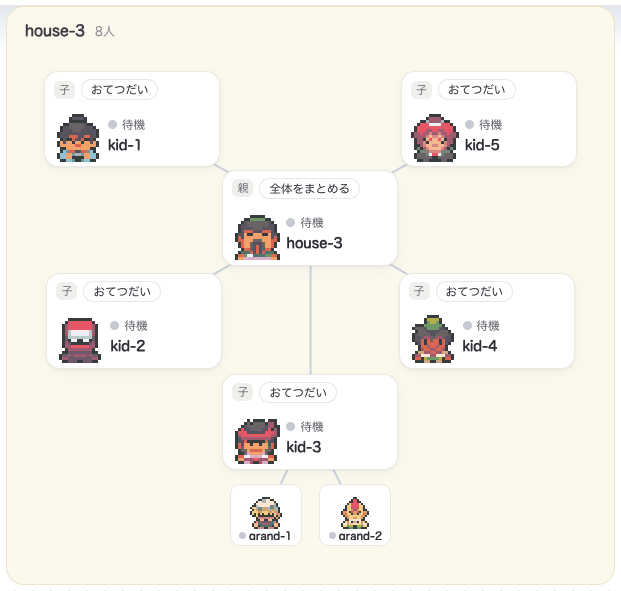
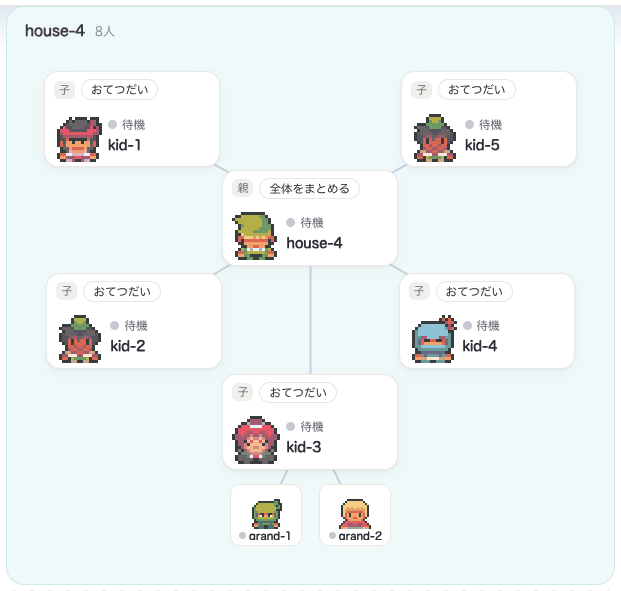
子3人を左、右、真下に置く。孫がいても子1〜6人は固定の座標のままにし、孫を子の外側へ並べて、検査に通らなければ孫までの距離を広げる（弧の計算には戻さない）

diff --git a/src/layout/layout.test.ts b/src/layout/layout.test.ts
@@ -1,6 +1,6 @@
 // 配置計算だけの検証。docs/design/physics-layout.md の 10 の8ケースを数値で確かめる。
 // 実行: bun test src/layout
-import { describe, expect, spyOn, test } from "bun:test";
+import { describe, expect, test } from "bun:test";
 import { readFileSync, readdirSync } from "node:fs";
 import { join } from "node:path";
 import { childSlots, gridRowGap, layoutFamily, type LNode, type Placed } from "./layout";
@@ -21,6 +21,9 @@ function family(rows: [string, string | null][], names?: Record<string, string>)
 const ok = (m: { overlaps: number; crossings: number; edgeThroughNode: number; interleave: number }) =>
   m.overlaps === 0 && m.crossings === 0 && m.edgeThroughNode === 0 && m.interleave === 0;
 const get = (ns: Placed[], id: string) => ns.find((n) => n.id === id)!;
+// 余白を指定すると、子1〜6人の固定の座標を使わず弧の計算になる。子1〜6人の世帯で弧の計算を確かめる試験はこれを渡す。
+// 2026-11-21 から、子1〜6人の世帯は孫がいても固定の座標に置く。弧の計算は子7人以上の世帯で使う
+const RADIAL = { gap: LAYOUT.gap };
 
 describe("家族の木の配置", () => {
   test("1. 親1人・子1人: 子は親の真下", () => {
@@ -75,11 +78,11 @@ describe("家族の木の配置", () => {
     expect(ok(r.metrics)).toBe(true);
   });
 
-  test("5. 一方の子にだけ孫が多い: その枝に広い角度が割り当たる", () => {
+  test("5. 一方の子にだけ孫が多い（弧の計算）: その枝に広い角度が割り当たる", () => {
     const rows: [string, string | null][] = [["p", null], ["a", "p"], ["b", "p"], ["c", "p"]];
     for (let i = 0; i < 8; i++) rows.push([`a${i}`, "a"]);
     rows.push(["b0", "b"], ["c0", "c"]);
-    const r = layoutFamily(family(rows));
+    const r = layoutFamily(family(rows), RADIAL);
     const span = (pre: string) => {
       const as = r.nodes.filter((n) => n.id.startsWith(pre) && n.depth === 2).map((n) => n.angle);
       return deg(Math.max(...as) - Math.min(...as));
@@ -90,24 +93,28 @@ describe("家族の木の配置", () => {
     expect(ok(r.metrics)).toBe(true);
   });
 
-  test("6. 深さ4まで・合計25体: 世代と親子を追える（重なり・交差・線の通り抜け・混ざりが0）", () => {
+  test("6. 深さ4まで・合計25体: 世代と親子を追える（重なり・交差・線の通り抜け・混ざりが0）。弧の計算と、子2人の固定の座標の両方", () => {
     const rows: [string, string | null][] = [["meta-0a", null], ["tangle-harvest", "meta-0a"]];
     for (let i = 1; i <= 4; i++) {
       rows.push([`miner-${i}`, "tangle-harvest"]);
       for (let j = 1; j <= 4; j++) rows.push([`miner-${i}.${j}`, `miner-${i}`]);
     }
     rows.push(["deep-1", "miner-2.1"], ["deep-2", "miner-2.1"], ["reviewer", "meta-0a"]);
-    const r = layoutFamily(family(rows));
-    report.push({ ケース: 6, 体数: rows.length, 最大の深さ: Math.max(...r.nodes.map((n) => n.depth)), 候補: r.arcIndex, 候補ごと: JSON.stringify(r.candidates), ...r.metrics });
+    const r = layoutFamily(family(rows), RADIAL);
+    const fixed = layoutFamily(family(rows));
+    expect(fixed.arcIndex).toBe(-1);
+    expect(ok(fixed.metrics)).toBe(true);
+    expect([get(fixed.nodes, "tangle-harvest"), get(fixed.nodes, "reviewer")].map((n) => [n.x, n.y])).toEqual(childSlots(2)!.map((q) => [q.x, q.y]));
+    report.push({ ケース: 6, 固定の座標のs: fixed.metrics.s.toFixed(3), 固定の座標の調整: fixed.metrics.adjustments, 体数: rows.length, 最大の深さ: Math.max(...r.nodes.map((n) => n.depth)), 候補: r.arcIndex, 候補ごと: JSON.stringify(r.candidates), ...r.metrics });
     expect(rows.length).toBe(25);
     expect(ok(r.metrics)).toBe(true);
   });
 
-  test("7. 子の追加・削除: 回転や反転をせず、角度の順が保たれる", () => {
+  test("7. 子の追加・削除（弧の計算）: 回転や反転をせず、角度の順が保たれる", () => {
     const base: [string, string | null][] = [["p", null], ["a", "p"], ["b", "p"], ["c", "p"], ["a1", "a"], ["a2", "a"], ["b1", "b"]];
-    const r0 = layoutFamily(family(base));
-    const added = layoutFamily(family([...base, ["d", "p"]]));
-    const removed = layoutFamily(family(base.filter(([id]) => id !== "b1")));
+    const r0 = layoutFamily(family(base), RADIAL);
+    const added = layoutFamily(family([...base, ["d", "p"]]), RADIAL);
+    const removed = layoutFamily(family(base.filter(([id]) => id !== "b1")), RADIAL);
     const order = (ns: Placed[], ids: string[]) => ids.map((id) => get(ns, id).angle).every((v, i, a) => i === 0 || a[i - 1] < v);
     const moved = (ns: Placed[]) => Math.max(...r0.nodes.filter((n) => ns.some((m) => m.id === n.id)).map((n) => { const m = get(ns, n.id); return Math.hypot(m.x - n.x, m.y - n.y); }));
     const flipped = (ns: Placed[]) => r0.nodes.filter((n) => n.depth > 0 && ns.some((m) => m.id === n.id)).some((n) => Math.sign(Math.round(get(ns, n.id).x)) === -Math.sign(Math.round(n.x)) && Math.abs(n.x) > 20);
@@ -123,13 +130,16 @@ describe("家族の木の配置", () => {
     expect(ok(added.metrics) && ok(removed.metrics)).toBe(true);
   });
 
-  test("8. 長い名前: 実際の箱で重なりを見つけて解消する", () => {
+  test("8. 長い名前: 実際の箱で重なりを見つけて解消する（弧の計算と、子2人の固定の座標の両方）", () => {
     const rows: [string, string | null][] = [["p", null], ["a", "p"], ["b", "p"]];
     const names: Record<string, string> = {};
     for (let i = 0; i < 6; i++) { rows.push([`a${i}`, "a"]); names[`a${i}`] = `long-worker-name-${i}-review`; }
     for (let i = 0; i < 6; i++) { rows.push([`b${i}`, "b"]); names[`b${i}`] = `長い名前の孫その${i}`; }
-    const short = layoutFamily(family(rows));
-    const long = layoutFamily(family(rows, names));
+    const short = layoutFamily(family(rows), RADIAL);
+    const long = layoutFamily(family(rows, names), RADIAL);
+    const fixedLong = layoutFamily(family(rows, names));
+    expect(fixedLong.arcIndex).toBe(-1);
+    expect(ok(fixedLong.metrics)).toBe(true);
     const w = (r: typeof long) => Math.max(...r.nodes.filter((n) => n.depth === 2).map((n) => n.w));
     report.push({ ケース: 8, 短い名前の箱の幅: w(short).toFixed(0), 長い名前の箱の幅: w(long).toFixed(0), 調整の回数: long.metrics.adjustments, ...long.metrics });
     expect(w(long)).toBeGreaterThan(w(short));
@@ -148,7 +158,6 @@ describe("家族の木の配置", () => {
   const shape = (r: { nodes: Placed[] }) => r.nodes.map((n) => [n.depth, n.x.toFixed(3), n.y.toFixed(3), n.w, n.h].join(","));
 
   // 子5人と6人は 2026-11-21 から格子の固定の座標に置く。試験9〜11 の数字は弧の計算（余白を指定した呼び出し）で出し、直したときの記録として残す
-  const RADIAL = { gap: LAYOUT.gap };
 
   test("9. 親の町（親が本物、子がゴースト）と子の町（親がゴースト、子が本物）で同じ配置になる（弧の計算と、子5人と6人の格子）", () => {
     const local = layoutFamily(town("e8c798cd", KIDS.map((k) => `ghost:${k}`)), RADIAL);
@@ -202,15 +211,16 @@ describe("家族の木の配置", () => {
   });
 
   // 2026-11-13、本人が子1〜4人の位置を決めた。親の中心が (0,0)、y は下が正。card 176×96、余白 m 8 で、dx 92、dy 104、side 184
+  // 2026-11-21、本人が子3人を、左、右、真下に変えた（真上、左下、右下から）。左右の子は親と同じ高さ、真下の子の x は親と同じ
   const SPEC: Record<number, [number, number][]> = {
     1: [[0, 104]],
     2: [[-92, 104], [92, 104]],
-    3: [[0, -104], [-92, 104], [92, 104]],
+    3: [[-184, 0], [184, 0], [0, 104]],
     4: [[-184, 0], [184, 0], [-92, 104], [92, 104]],
   };
   // 本人の条件のまま書く: |xA-xB| >= w+m か |yA-yB| >= h+m
   const apart = (a: Placed, b: Placed) => Math.abs(a.x - b.x) >= 176 + 8 || Math.abs(a.y - b.y) >= 96 + 8;
-  const SIZE: Record<number, { w: number; h: number }> = { 1: { w: 251, h: 303 }, 2: { w: 435, h: 303 }, 3: { w: 435, h: 407 }, 4: { w: 619, h: 303 } };
+  const SIZE: Record<number, { w: number; h: number }> = { 1: { w: 251, h: 303 }, 2: { w: 435, h: 303 }, 3: { w: 619, h: 303 }, 4: { w: 619, h: 303 } };
 
   for (const n of [1, 2, 3, 4]) {
     test(`12-${n}. 子${n}人: 本人が決めた固定の座標に、兄弟の順で置く。どのカードの組も重ならない`, () => {
@@ -233,16 +243,24 @@ describe("家族の木の配置", () => {
     });
   }
 
-  test("13. 子7人以上の世帯と、子1〜4人で孫がいる世帯は、今の計算のまま（弧の候補から選ぶ）", () => {
+  test("12-3b. 子3人: 左右の子は親と同じ高さ、真下の子の x は親と同じ", () => {
+    const r = layoutFamily(town("e8c798cd", KIDS.slice(0, 3)));
+    const [l, rr, b] = KIDS.slice(0, 3).map((id) => get(r.nodes, id));
+    expect([l.y, rr.y]).toEqual([0, 0]);
+    expect(l.x).toBe(-rr.x);
+    expect(b.x).toBe(0);
+    expect(b.y).toBeGreaterThan(0);
+    expect(r.nodes.some((n) => n.y < 0)).toBe(false); // 上には置かない
+  });
+
+  test("13. 子7人以上の世帯は、今の計算のまま（弧の候補から選ぶ）", () => {
     expect(childSlots(7)).toBeNull();
     const seven = layoutFamily(town("e8c798cd", [...KIDS6, "5c0ffee1"]));
     expect(seven.arcIndex).toBeGreaterThanOrEqual(0);
     expect(seven.candidates.length).toBe(LAYOUT.arcLimits.length);
     expect(ok(seven.metrics)).toBe(true);
-    const withGrand = layoutFamily(family([["p", null], ["a", "p"], ["b", "p"], ["a1", "a"]]));
-    expect(withGrand.arcIndex).toBeGreaterThanOrEqual(0);
-    expect(withGrand.fallback).toBeUndefined();
-    expect(ok(withGrand.metrics)).toBe(true);
+    const sevenGrand = layoutFamily(family([["p", null], ...Array.from({ length: 7 }, (_, i) => [`c${i}`, "p"] as [string, string]), ["c0-1", "c0"]]));
+    expect(sevenGrand.arcIndex).toBeGreaterThanOrEqual(0);
     // ゴーストの世帯も同じ固定の座標になる（親の町と子の町で同じ形）
     const local = layoutFamily(town("e8c798cd", KIDS.slice(0, 4).map((k) => `ghost:${k}`)));
     const remote = layoutFamily(town("ghost:e8c798cd", KIDS.slice(0, 4)));
@@ -289,7 +307,6 @@ describe("家族の木の配置", () => {
       expect(ok(r.metrics)).toBe(true);
       expect(r.valid).toBe(true);
       expect(r.arcIndex).toBe(-1);
-      expect(r.fallback).toBeUndefined();
       expect(groupSizeOf(r.metrics)).toEqual(GRID_SIZE[n]);
       report.push({ ケース: `14-${n}`, 座標: JSON.stringify(byOrder.map((k) => [k.x, k.y])), 世帯の枠: `${GRID_SIZE[n].w}×${GRID_SIZE[n].h}`, ...r.metrics });
     });
@@ -307,9 +324,15 @@ describe("家族の木の配置", () => {
     return family(rows);
   };
 
-  // 画面の確かめ（docs/shots/2026-11-21-grid-*.png）と同じ形。5人は左下の子に孫2人、6人は左上の子に孫1人と右下の子に孫2人
+  // 画面の確かめ（docs/shots/2026-11-21-grid-*.png）と同じ形。1人は孫2人、2人は左の子に孫2人、3人は右の子に孫2人、
+  // 4人は右の子に孫1人（本人の画面の形）、5人は左下の子に孫2人、6人は左上の子に孫1人と右下の子に孫2人
   // 6人の上の段の2人（角度が ±π の側）に孫がいる形と、ひ孫がいる形も見る
-  const GRAND_CASES: { n: 5 | 6; grand: Record<number, number>; deep?: Record<number, number>; label: string }[] = [
+  const GRAND_CASES: { n: number; grand: Record<number, number>; deep?: Record<number, number>; label: string }[] = [
+    { n: 1, grand: { 1: 2 }, label: "1" },
+    { n: 2, grand: { 1: 2 }, label: "2" },
+    { n: 3, grand: { 2: 2 }, label: "3" },
+    { n: 3, grand: { 1: 1, 2: 1, 3: 3 }, deep: { 3: 1 }, label: "3-全員とひ孫" },
+    { n: 4, grand: { 2: 1 }, label: "4" },
     { n: 5, grand: { 3: 2 }, label: "5" },
     { n: 6, grand: { 1: 1, 6: 2 }, label: "6" },
     { n: 6, grand: { 1: 2, 2: 2 }, label: "6-上の段" },
@@ -322,10 +345,9 @@ describe("家族の木の配置", () => {
       const r = layoutFamily(input);
       const radial = layoutFamily(input, RADIAL);
       expect(r.arcIndex).toBe(-1);
-      expect(r.fallback).toBeUndefined();
       expect(ok(r.metrics)).toBe(true);
       expect(r.valid).toBe(true);
-      expect(Array.from({ length: n }, (_, i) => get(r.nodes, `k${i + 1}`)).map((k) => [k.x, k.y])).toEqual(GRID[n]);
+      expect(Array.from({ length: n }, (_, i) => get(r.nodes, `k${i + 1}`)).map((k) => [k.x, k.y])).toEqual(childSlots(n)!.map((q) => [q.x, q.y]));
       for (const g of r.nodes.filter((x) => x.depth >= 2)) {
         const k = get(r.nodes, g.parent!);
         // 根から見て親より遠く、親の向きから 45 度以内
@@ -337,25 +359,26 @@ describe("家族の木の配置", () => {
     });
   }
 
-  test("16. 子5人と6人で孫が多く、格子では検査を通らない世帯は、弧の計算に戻し、理由を fallback に残す", () => {
-    const warn = spyOn(console, "warn").mockImplementation(() => {});
-    try {
-      for (const n of [5, 6]) {
-        const input = gridFamily(n, { 1: 8, 3: 8 });
-        const r = layoutFamily(input);
-        expect(r.arcIndex).toBeGreaterThanOrEqual(0);
-        expect(r.fallback).toBeDefined();
-        expect(r.fallback!.slots).toBe(n);
-        expect(r.fallback!.adjustments).toBe(LAYOUT.maxAdjust);
-        expect(r.fallback!.overlaps + r.fallback!.crossings + r.fallback!.edgeThroughNode + r.fallback!.interleave).toBeGreaterThan(0);
-        expect(ok(r.metrics)).toBe(true);
-        // 戻した結果は、余白を指定して弧の計算だけをした結果と同じ
-        expect(shape(r)).toEqual(shape(layoutFamily(input, RADIAL)));
-        report.push({ ケース: `16-${n}`, 戻した理由: JSON.stringify(r.fallback), 戻した先の候補: r.arcIndex, ...r.metrics });
+  test("16. 孫が多くても、子の位置は変えず、孫までの距離を広げて検査を通す（弧の計算には戻さない）", () => {
+    for (const n of [3, 4, 5, 6]) {
+      const input = gridFamily(n, { 1: 8, 3: 8 });
+      const r = layoutFamily(input);
+      const radial = layoutFamily(input, RADIAL);
+      expect(r.arcIndex).toBe(-1);
+      expect(ok(r.metrics)).toBe(true);
+      expect(r.metrics.adjustments).toBeGreaterThan(0);
+      expect(Array.from({ length: n }, (_, i) => get(r.nodes, `k${i + 1}`)).map((k) => [k.x, k.y])).toEqual(childSlots(n)!.map((q) => [q.x, q.y]));
+      report.push({ ケース: `16-${n}`, 孫: "1人目と3人目に8人ずつ", 格子のs: r.metrics.s.toFixed(3), 格子の枠: JSON.stringify(groupSizeOf(r.metrics)), 弧の計算のs: radial.metrics.s.toFixed(3), 弧の計算の枠: JSON.stringify(groupSizeOf(radial.metrics)), ...r.metrics });
+    }
+  });
+
+  test("17. 孫が増えても減っても、子の位置は孫がいないときと同じ", () => {
+    for (let n = 1; n <= 6; n++) {
+      const kidsAt = (r: { nodes: Placed[] }) => Array.from({ length: n }, (_, i) => get(r.nodes, `k${i + 1}`)).map((k) => [k.x, k.y]);
+      const none = layoutFamily(gridFamily(n, {}));
+      for (const grand of [{ 1: 1 }, { [n]: 3 }, Object.fromEntries(Array.from({ length: n }, (_, i) => [i + 1, 2]))]) {
+        expect(kidsAt(layoutFamily(gridFamily(n, grand)))).toEqual(kidsAt(none));
       }
-      expect(warn).toHaveBeenCalledTimes(2);
-    } finally {
-      warn.mockRestore();
     }
   });
 

diff --git a/src/layout/layout.ts b/src/layout/layout.ts
@@ -7,10 +7,10 @@
 // 5. 実際の矩形で重なりを検査し、残れば決まった順序で角度の余白、次に半径を広げてやり直す
 // 6. 兄弟を並べる弧の上限を変えた候補を作り、検査を通るもののうち s が一番小さいものを選ぶ。
 //    前に選んだ候補は引き継がない。同じ顔ぶれなら、どの町で、どの順で増えても同じ配置になる（docs/design/geometric-layout.md の末尾）
-// ただし、親1人と子1〜6人だけの世帯（孫がいない、全員がカードの大きさ）は、上の計算をせず childSlots の固定の座標に置く。
-// 子が5人か6人で孫がいる世帯は、子を同じ固定の座標に置き、孫より下を子の角度を中心に外側へ並べる（placeGrid）。
-// 検査を通らなければ上の計算に戻し、戻した理由を結果の fallback に残す。
-// 子が7人以上の世帯と、子が1〜4人で孫がいる世帯は上の計算のまま（docs/design/geometric-layout.md の「子1〜4人の固定の座標」「子5人と6人の格子」）
+// ただし、子が1〜6人の世帯（根と子がカードの大きさ）は、上の計算をせず childSlots の固定の座標に子を置く。
+// 孫がいても子の位置は変えず、孫より下をその子の、親から離れる向きの延長に並べる（placeGrid）。
+// 検査を通らなければ、子の位置はそのままで、違反した枝の孫までの距離を広げる。上の計算には戻さない。
+// 子が7人以上の世帯は上の計算のまま（docs/design/geometric-layout.md の「子1〜4人の固定の座標」「子3人、5人、6人の格子と、孫がいる世帯」）
 
 import { LAYOUT } from "./params";
 
@@ -45,8 +45,6 @@ export type LayoutResult = {
   arcIndex: number;
   valid: boolean;
   candidates: { arcIndex: number; valid: boolean; s: number; width: number; height: number }[];
-  /** 子5人か6人の格子に置けず、弧の計算に戻したときの理由（格子の結果の検査の値）。戻していなければ無い */
-  fallback?: { slots: number; overlaps: number; crossings: number; edgeThroughNode: number; interleave: number; adjustments: number; s: number };
 };
 
 export type LayoutOptions = {
@@ -173,10 +171,11 @@ export function gridRowGap(card = LAYOUT.card, m = LAYOUT.cardMargin, gap = LAYO
 
 /**
  * 親1人と子1〜6人の世帯で、子のカードを置く位置。親の中心が (0,0)、y は下が正。
- * 1〜4人は本人が決めた座標（2026-11-13）。重ならない、余白 m を空ける、左右対称、紐を短く、外接矩形を小さく、の順に優先し、
+ * 1、2、4人は本人が決めた座標（2026-11-13）。重ならない、余白 m を空ける、左右対称、紐を短く、外接矩形を小さく、の順に優先し、
  * 中心の間の距離をそろえることより詰めることを取る。
- * 5人と6人は本人が決めた格子（2026-11-21）。左右の子は親と同じ高さに置き、上下の段は左右の列（x = ±side）と真ん中（x = 0）にそろえる。
- *   5人: 左、右、左下、真下、右下。6人: 左上、右上、左、右、左下、右下。
+ * 3人、5人、6人は本人が決めた格子（2026-11-21）。左右の子は親と同じ高さに置き、上下の段は左右の列（x = ±side）と真ん中（x = 0）にそろえる。
+ *   3人: 左、右、真下。5人: 左、右、左下、真下、右下。6人: 左上、右上、左、右、左下、右下。
+ *   3人は角に子がいないので、段の間は 1、2、4人と同じ h+m にする。5人と6人は gridRowGap。
  * どの人数も、上の段から下の段へ、同じ段は左から右へ並べる。i 番目の子（兄弟の順は order、次に id）を i 番目の位置に置く。
  */
 export function childSlots(count: number, card = LAYOUT.card, m = LAYOUT.cardMargin): { x: number; y: number }[] | null {
@@ -185,7 +184,7 @@ export function childSlots(count: number, card = LAYOUT.card, m = LAYOUT.cardMar
   switch (count) {
     case 1: return [{ x: 0, y: dy }];
     case 2: return [{ x: -dx, y: dy }, { x: dx, y: dy }];
-    case 3: return [{ x: 0, y: -dy }, { x: -dx, y: dy }, { x: dx, y: dy }];
+    case 3: return [{ x: -side, y: 0 }, { x: side, y: 0 }, { x: 0, y: dy }];
     case 4: return [{ x: -side, y: 0 }, { x: side, y: 0 }, { x: -dx, y: dy }, { x: dx, y: dy }];
     case 5: return [{ x: -side, y: 0 }, { x: side, y: 0 }, { x: -side, y: gy }, { x: 0, y: gy }, { x: side, y: gy }];
     case 6: return [{ x: -side, y: -gy }, { x: side, y: -gy }, { x: -side, y: 0 }, { x: side, y: 0 }, { x: -side, y: gy }, { x: side, y: gy }];
@@ -203,24 +202,14 @@ function placedRoot(t: Tree): Placed {
   return { id: t.root.id, parent: null, depth: 0, x: 0, y: 0, w: t.root.w, h: t.root.h, angle: 0 };
 }
 
-/** 固定の座標に置ける世帯（孫がいない、子1〜6人）なら、置いた結果を返す。置けなければ null（今の計算に回す） */
-function placeFixed(t: Tree): Placed[] | null {
-  const ks = t.kids.get(t.root.id) ?? [];
-  if (t.byId.size !== ks.length + 1) return null; // 孫がいる
-  if ([...t.byId.values()].some((n) => n.circle || n.w !== LAYOUT.card.w || n.h !== LAYOUT.card.h)) return null;
-  const slots = childSlots(ks.length);
-  if (!slots) return null;
-  // 角度は今の計算と同じ向き（下が 0、右が正）。真上は π
-  return [placedRoot(t), ...ks.map((k, i) => ({ id: k.id, parent: t.root.id, depth: 1, x: slots[i].x, y: slots[i].y, w: k.w, h: k.h, angle: Math.atan2(slots[i].x, slots[i].y) }))];
-}
-
 /** 箱が、根から角度 θ の向きに占める半分の長さ（箱の支持関数）。左右の子なら w/2、真下なら h/2 */
 function radialHalfAt(n: LNode, theta: number): number {
   return Math.abs((n.w / 2) * Math.sin(theta)) + Math.abs((n.h / 2) * Math.cos(theta));
 }
 
 /**
- * 子5人か6人で孫がいる世帯。子を childSlots の格子に置き、孫より下は今の計算と同じ決まりで、その子の外側に並べる。
+ * 子1〜6人の世帯。子を childSlots の位置に置き、孫より下は今の計算と同じ決まりで、その子の外側（親から離れる向きの延長）に並べる。
+ * 孫がいなければ、子の位置をそのまま返す。
  * - 子 k の枝の世代 d の半径 R_k[d] は、根から子 k までの距離から始め、子 k の角度の向きで箱の半分の長さと radialGap を足していく
  * - 兄弟は、子 k の角度（孫より下は親の角度）を中心に、重ならない最小の角度 2·arcsin(r/R) で並べる。葉から必要な幅を足し上げる
  * - extra[k] は子 k の枝の孫の半径に足す。検査に通らないときに広げる
@@ -360,9 +349,10 @@ function solve(t: Tree, arcLimit: number, gap: number, radialGap: number, view: 
 const passes = (m: Metrics) => !m.overlaps && !m.crossings && !m.edgeThroughNode && !m.interleave;
 
 /**
- * 子5人か6人で孫がいる世帯を格子に置く。検査に通るまで、違反した枝の孫の半径を radiusStep ずつ広げる。
+ * 子1〜6人の世帯を childSlots の位置に置く。子の位置は動かさず、検査に通るまで、違反した枝の孫までの距離を radiusStep ずつ広げる。
  * 重なった組は、深いほうの箱の枝（同じ深さなら両方の枝）を広げる。重なりが無く線の検査だけが残るときは、孫のいる枝をすべて広げる。
- * maxAdjust 回で通らなければ、最後の結果を返す（呼び出し側が今の計算に戻す）。
+ * 孫までの距離を広げるほど、兄弟を並べる角度が狭まり、枝どうしが離れるので、いずれ通る。
+ * gridMaxAdjust 回で通らなければ、最後の結果を valid: false で返す（画面は「配置が重なっている」を出す）。
  */
 function solveGrid(t: Tree, slots: { x: number; y: number }[], gap: number, radialGap: number, view: { w: number; h: number }) {
   const ks = t.kids.get(t.root.id) ?? [];
@@ -372,7 +362,7 @@ function solveGrid(t: Tree, slots: { x: number; y: number }[], gap: number, radi
   let nodes = placeGrid(t, slots, gap, radialGap, extra);
   let m = measure(nodes, view, gap / 2);
   let n = 0;
-  while (!passes(m) && n < LAYOUT.maxAdjust) {
+  while (!passes(m) && n < LAYOUT.gridMaxAdjust) {
     n++;
     const grow = new Set<number>();
     outer: for (let i = 0; i < nodes.length; i++) for (let j = i + 1; j < nodes.length; j++) {
@@ -396,21 +386,14 @@ export function layoutFamily(input: LNode[], opt: LayoutOptions = {}): LayoutRes
   const radialGap = opt.radialGap ?? LAYOUT.radialGap;
   const view = opt.view ?? LAYOUT.view;
   // 余白を指定された呼び出し（検証用）は今の計算に回す
-  const useSlots = opt.gap === undefined && opt.radialGap === undefined;
-  const fixed = useSlots ? placeFixed(t) : null;
-  if (fixed) {
-    // 指標は今の計算と同じ measure で出す。世帯の枠（groupSizeOf）は width と height から決まるので、枠の計算も同じ式になる
-    const m = measure(fixed, view, gap / 2);
-    // arcIndex -1 は「弧の候補を使わず固定の座標に置いた」。候補は作らない
-    return { nodes: fixed, metrics: m, arcIndex: -1, valid: passes(m), candidates: [] };
-  }
   const kidCount = t.kids.get(t.root.id)?.length ?? 0;
-  let fallback: LayoutResult["fallback"];
-  if (useSlots && (kidCount === 5 || kidCount === 6) && kidsAreCards(t)) {
-    const g = solveGrid(t, childSlots(kidCount)!, gap, radialGap, view);
-    if (passes(g.m)) return { nodes: g.nodes, metrics: g.m, arcIndex: -1, valid: true, candidates: [] };
-    fallback = { slots: kidCount, overlaps: g.m.overlaps, crossings: g.m.crossings, edgeThroughNode: g.m.edgeThroughNode, interleave: g.m.interleave, adjustments: g.m.adjustments, s: Number(g.m.s.toFixed(3)) };
-    console.warn("Claude Town: 子5人か6人の格子に置けず、弧の計算に戻した", t.root.id, fallback);
+  const slots = opt.gap === undefined && opt.radialGap === undefined && kidsAreCards(t) ? childSlots(kidCount) : null;
+  if (slots) {
+    // 指標は今の計算と同じ measure で出す。世帯の枠（groupSizeOf）は width と height から決まるので、枠の計算も同じ式になる
+    const g = solveGrid(t, slots, gap, radialGap, view);
+    if (!passes(g.m)) console.warn("Claude Town: 子の固定の座標で、孫までの距離を広げても検査を通らなかった", t.root.id, g.m);
+    // arcIndex -1 は「弧の候補を使わず固定の座標に置いた」。候補は作らない
+    return { nodes: g.nodes, metrics: g.m, arcIndex: -1, valid: passes(g.m), candidates: [] };
   }
   const cands = LAYOUT.arcLimits.map((a, i) => ({ i, ...solve(t, a, gap, radialGap, view) }));
   const ok = (c: (typeof cands)[number]) => passes(c.m);
@@ -420,6 +403,5 @@ export function layoutFamily(input: LNode[], opt: LayoutOptions = {}): LayoutRes
   return {
     nodes: best.nodes, metrics: best.m, arcIndex: best.i, valid: ok(best),
     candidates: cands.map((c) => ({ arcIndex: c.i, valid: ok(c), s: Number(c.m.s.toFixed(3)), width: c.m.width, height: c.m.height })),
-    ...(fallback ? { fallback } : {}),
   };
 }

diff --git a/src/layout/params.ts b/src/layout/params.ts
@@ -21,6 +21,8 @@ export const LAYOUT = {
   padStep: 1.12,
   radiusStep: 14,
   maxAdjust: 40,
+  /** 子1〜6人の固定の座標で、孫までの距離を広げる回数の上限。子の位置を動かさないので、弧の計算より多く広げる */
+  gridMaxAdjust: 400,
   /** s の基準にする表示領域（右の会話欄を除いた左側）。窓の大きさが変わっても配置し直さないよう固定値にする */
   view: { w: 1000, h: 660 },
   /** 家族の枠の内側の余白 */

diff --git a/README.md b/README.md
@@ -34,7 +34,7 @@ Claude Town は、手元のノード（`127.0.0.1`、ポートは `~/.config/ccn
 
 画面は3つのペインに分ける（#89）。左は新しい世帯のペインで、最近使った場所の一覧から親を立てる。中央は町で、世帯（根のセッション1つとその子孫）ごとに、淡い色の角丸の枠を1つ描き、中に親と子と孫を木の形で並べる。右には選んだ子の会話と注文の欄を出す。左のペインはヘッダーのボタンとドラッグで開け閉めでき、右の欄はセッションを選んでいない間は閉じている。スマホの幅では別の画面（`src/mobile/`）になり、この3ペインではない。
 
-世帯の中の配置は、決定論的な幾何の配置で決める（`src/layout/`。方針は `docs/design/geometric-layout.md`、検証の条件は `docs/design/physics-layout.md` の 10）。世帯の一番上の親を中心に、世代ごとの半径に並べる。根の子は下向きを中心に、孫より下は親の角度を中心に、兄弟を重ならない最小の角度（2·arcsin(r/R)）で並べる。子孫の多い枝には、葉から計算した広い角度を割り当てる。実際の箱（キャラと名前）で重なり、親子線の交差、線が箱を通ること、枝の混ざりを検査し、残れば決まった順序で角度の余白、次に半径を広げる。兄弟を並べる弧の上限を4通り試し、検査を通るもののうち s（配置の幅と高さを表示領域で割った大きいほう）が一番小さいものを選ぶ。親1人と子1〜6人だけの世帯は、この計算をせず決まった座標に子を置く。子5人は親の左右に1人ずつと下の段に3人、子6人は上の段に2人、親の左右に1人ずつ、下の段に2人を並べる。左右の子は親と同じ高さにする。子5人か6人で孫がいる世帯は、子を同じ座標に置き、孫をその子の外側に並べる。検査を通らなければ、上の計算に戻す。乱数と時刻は使わない。配置を計算し直すのは世帯の顔ぶれが変わったときだけで、新しい座標へは短いアニメーションで移る。パラメータは `src/layout/params.ts` にまとめた。
+世帯の中の配置は、決定論的な幾何の配置で決める（`src/layout/`。方針は `docs/design/geometric-layout.md`、検証の条件は `docs/design/physics-layout.md` の 10）。世帯の一番上の親を中心に、世代ごとの半径に並べる。根の子は下向きを中心に、孫より下は親の角度を中心に、兄弟を重ならない最小の角度（2·arcsin(r/R)）で並べる。子孫の多い枝には、葉から計算した広い角度を割り当てる。実際の箱（キャラと名前）で重なり、親子線の交差、線が箱を通ること、枝の混ざりを検査し、残れば決まった順序で角度の余白、次に半径を広げる。兄弟を並べる弧の上限を4通り試し、検査を通るもののうち s（配置の幅と高さを表示領域で割った大きいほう）が一番小さいものを選ぶ。子が1〜6人の世帯は、この計算をせず決まった座標に子を置く。子3人は親の左右に1人ずつと真下に1人、子5人は親の左右に1人ずつと下の段に3人、子6人は上の段に2人、親の左右に1人ずつ、下の段に2人を並べる。左右の子は親と同じ高さにする。孫がいても子の座標は変えず、孫をその子の、親から離れる向きの延長に並べる。検査を通らなければ、孫までの距離を広げる。乱数と時刻は使わない。配置を計算し直すのは世帯の顔ぶれが変わったときだけで、新しい座標へは短いアニメーションで移る。パラメータは `src/layout/params.ts` にまとめた。
 
 孫より下は、キャラと名前と状態の点だけの小さい札にする。札を押すと、親や子と同じ大きさのカードを上に重ねて広げ、周りの配置は動かさない。空白を押すと元に戻る。
 
